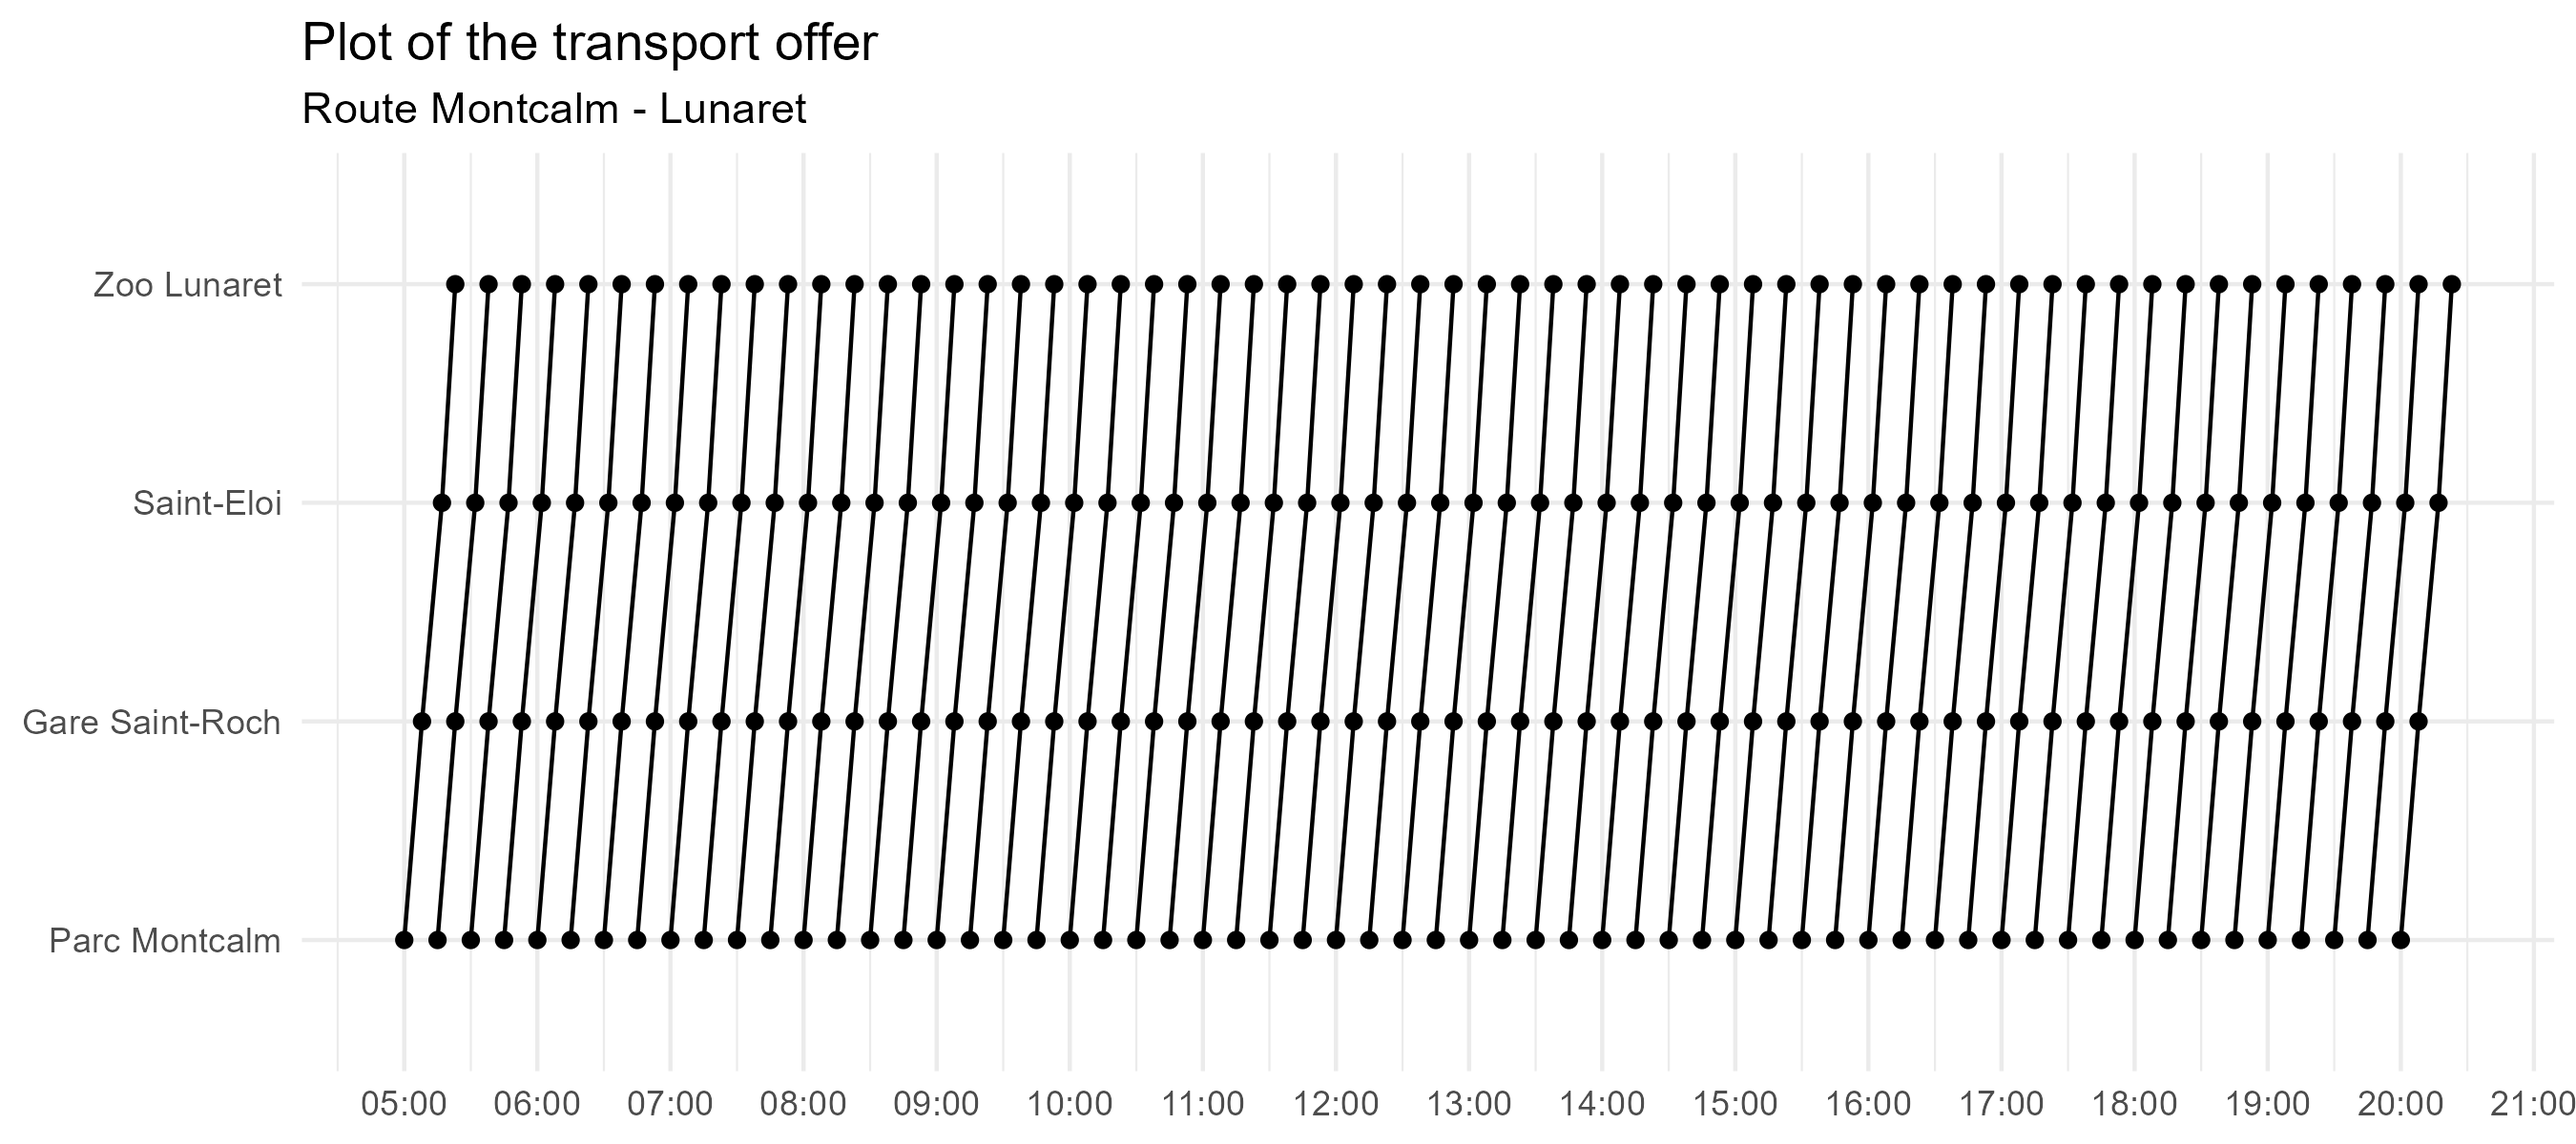
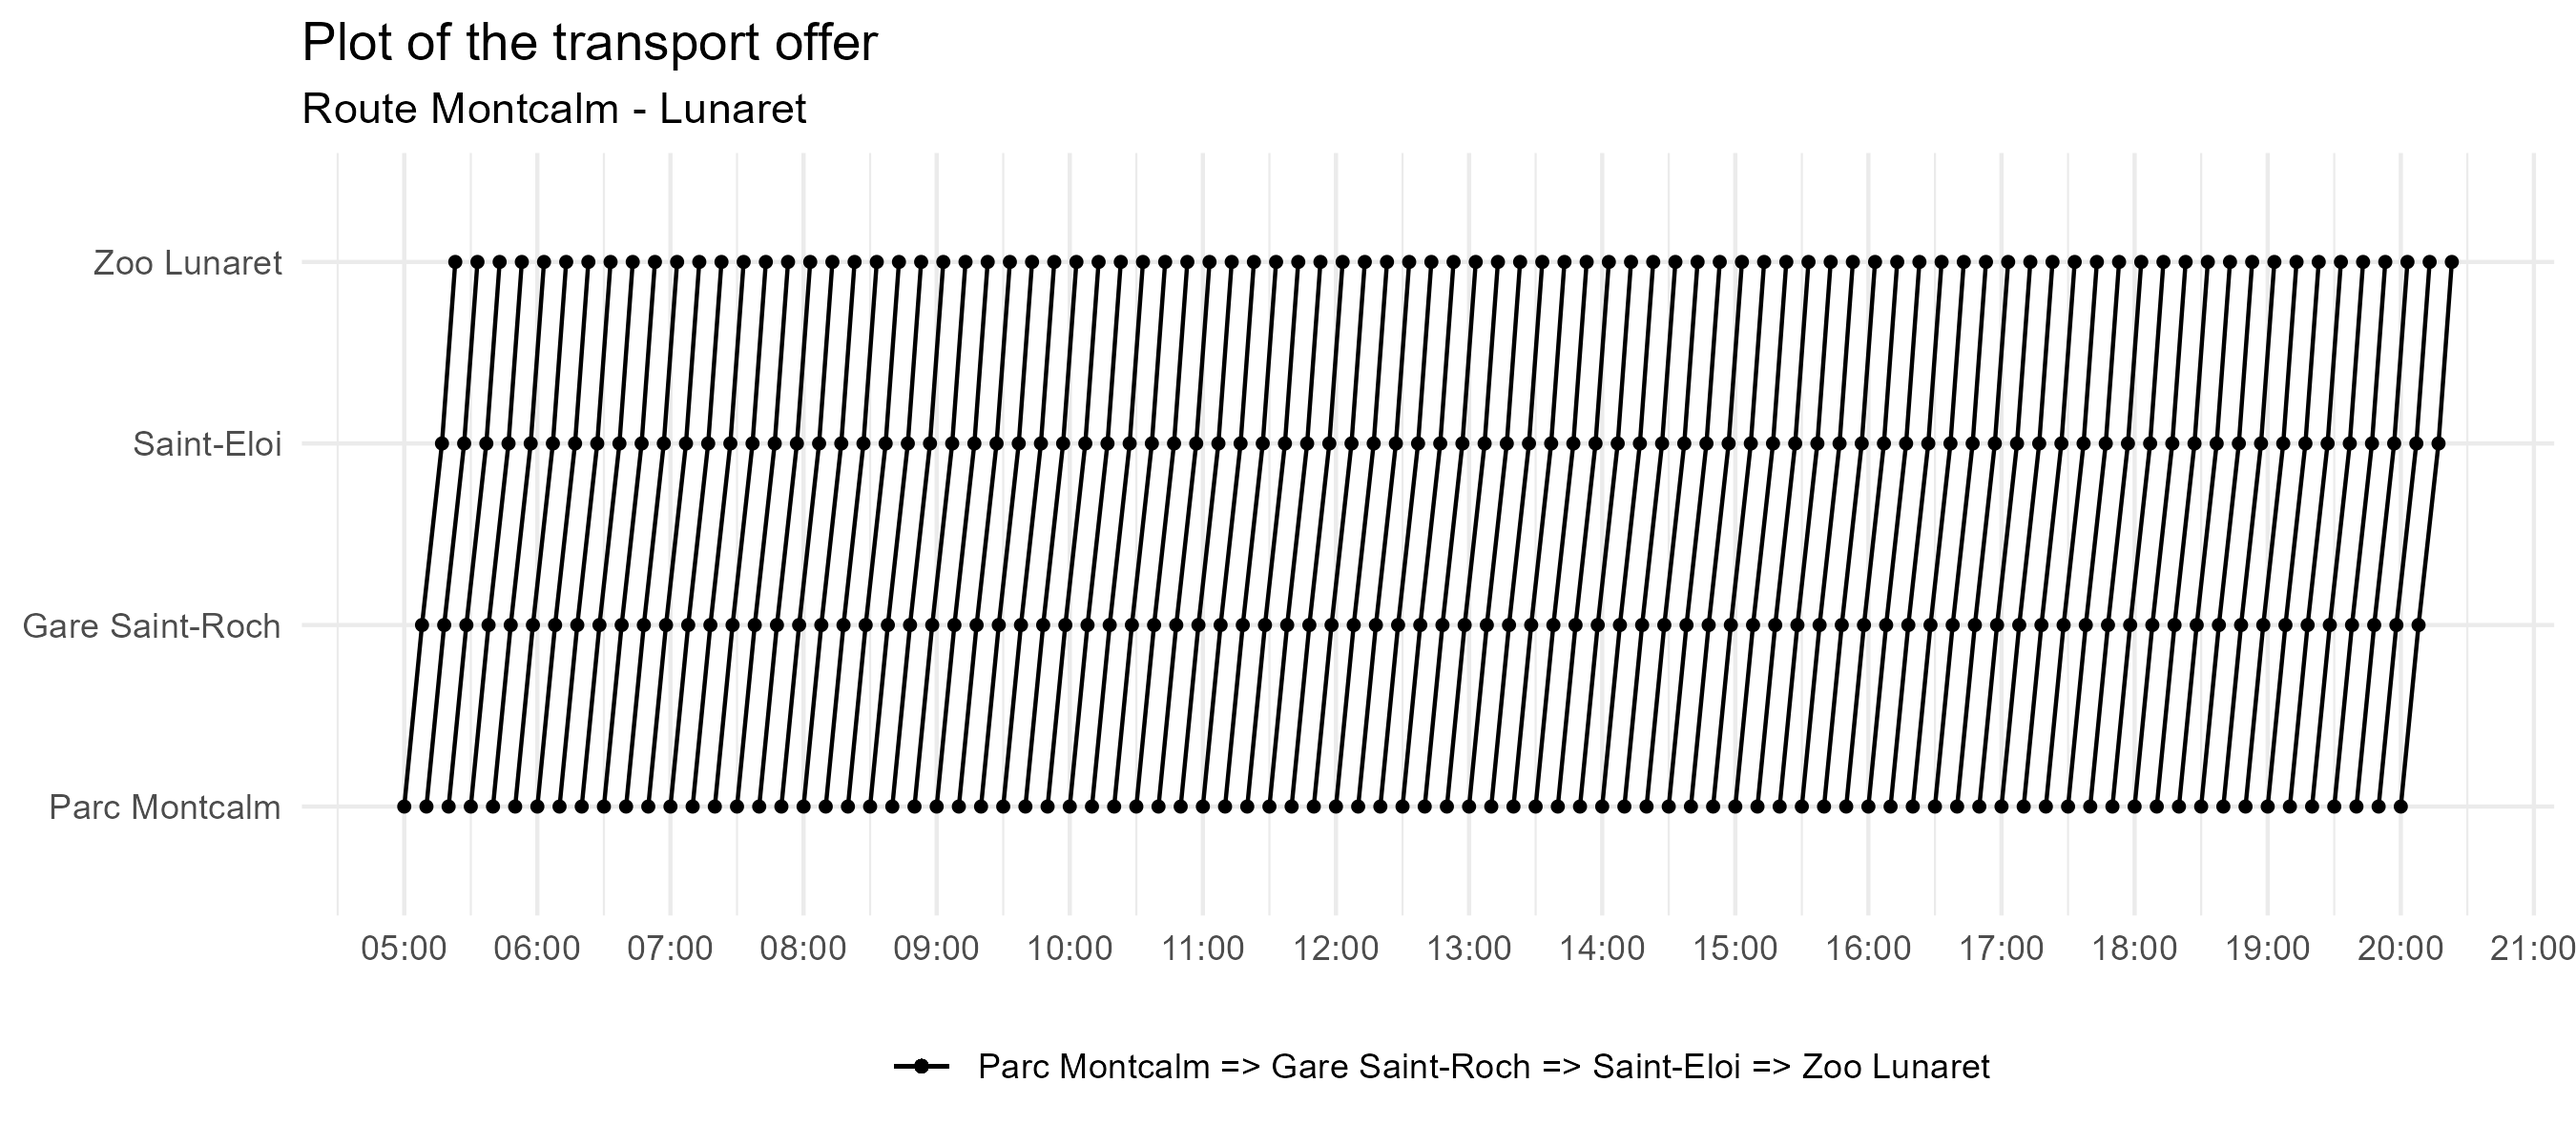
Update plot_trips

diff --git a/README.md b/README.md
@@ -30,10 +30,10 @@ devtools::install_github("jc-ulles/gtfsmaker")
 GTFS is a format for structuring public transport data. It consists of
 six mandatory files in .txt format (`agency`, `stops`, `stop_times`,
 `trips`, `routes`, `calendar`). They are linked together by
-identification keys (route_id, trip_id, service_id, stop_id). Please
-visit <https://gtfs.org> for information.
+identification keys (`route_id`, `trip_id`, `service_id`, `stop_id`).
+Please visit <https://gtfs.org> for information.
 
-<img src='man/figures/id_GTFS.png'/>
+<img src='man/figures/id_GTFS.png' width="700"/>
 
 ## Example
 
@@ -121,7 +121,9 @@ add_calendar(service_id = 1,
 Plot the transport offer with `plot_trips()`:
 
 ``` r
-plot_trips(service_id = 1)
+plot_trips(route_id = 1,
+           size_point = 1,
+           size_line = 0.5)
 ```
 
 <img src='man/figures/plot_example.png'/>
